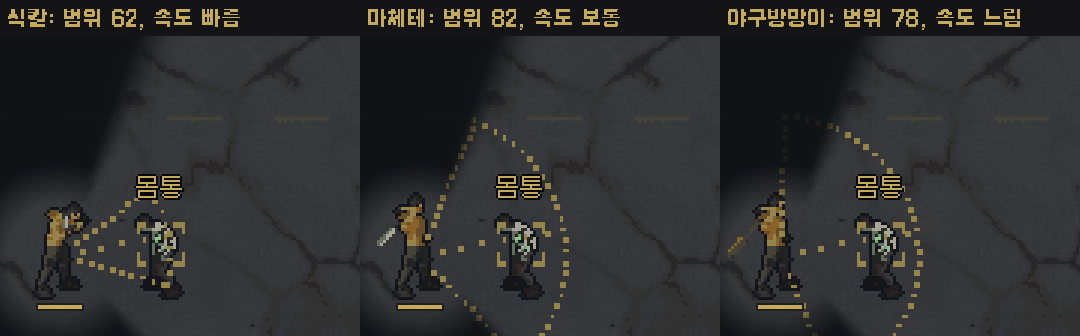
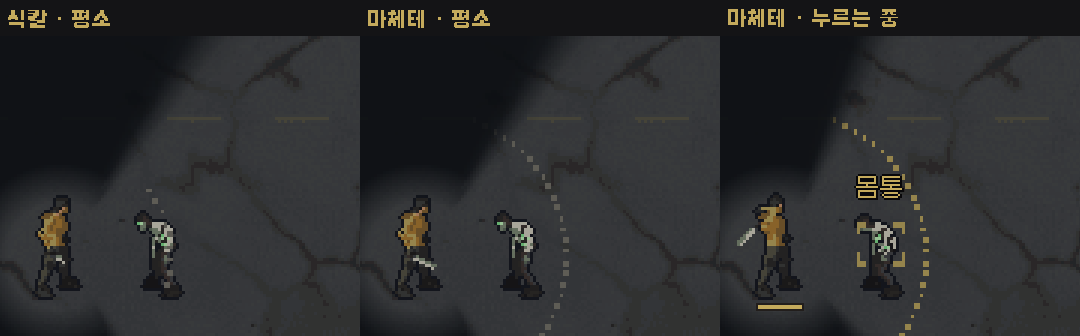
공격 범위는 끝 호만 점선으로, 평소에도 흐리게 보이고 누르면 부위 색

diff --git a/src/play.py b/src/play.py
@@ -732,17 +732,20 @@ class Game:
         self.draw_world(cx, cy)
 
     def draw_aim(self, cx, cy):
-        """While the weapon is held raised: the path of the blow toward the cursor and the part it
-        goes for, marked on the body (2026-11-16 "공격 경로가 보이면서"). Dotted on the canvas."""
+        """The reach of the weapon toward the cursor, as the arc its blow ends on - always shown,
+        faint; while the weapon is held raised it takes the colour of the part it goes for and that
+        part is marked on the body (2026-11-16 "차징 안 할 때도 범위가 뜨면", "그림처럼 끝부분만").
+        Dotted on the canvas."""
         hero = self.hero
-        if hero.ready is None or hero.ready < weapons.QUICK_PRESS or self.aim[0] is None:
+        if self.aim[0] is None or hero.dead or self.left or self.bag_open:
             return
+        holding = hero.ready is not None and hero.ready >= weapons.QUICK_PRESS
         w = hero.weapon
-        aim = self.aimed(*self.aim)
-        tx, ty = self.mouse_world(*self.aim)              # the path runs toward the cursor
+        aim = self.aimed(*self.aim) if holding else None
+        tx, ty = self.mouse_world(*self.aim)              # toward the cursor
         part = aim[1] if aim is not None else "torso"
         colour = {"head": (226, 70, 56), "torso": (196, 170, 92), "legs": (120, 160, 210),
-                  "ground": (214, 128, 52)}[part]
+                  "ground": (214, 128, 52)}[part] if holding else (120, 116, 104)
         sx, sy = hero.x, hero.y + CHEST
         ang = atan2(ty - sy, tx - sx)
         length = weapons.attack_range(w)                   # exactly the range the hit uses
@@ -751,17 +754,10 @@ class Game:
         def dot(x, y, size=1):
             pico2d.draw_rectangle(x - size - cx, y - size - cy, x + size - cx, y + size - cy, *colour, filled=True)
 
-        # the whole area the blow covers (2026-11-16 "공격 범위에 맞춰서 점선을"): both edges
-        # and the far arc, dotted; the middle line toward the cursor a little brighter
-        for edge in (-w["arc"], w["arc"]):
-            for i in range(2, int(length // step) + 1):
-                dot(sx + cos(ang + edge) * i * step, sy + sin(ang + edge) * i * step)
-        n = max(2, int(length * w["arc"] / step))
+        n = max(2, int(length * w["arc"] / step))          # only the far arc: where the blow ends
         for k in range(-n, n + 1):
             a = ang + k * w["arc"] / n
             dot(sx + cos(a) * length, sy + sin(a) * length)
-        for i in range(2, int(length // step) + 1, 2):    # the aim line
-            dot(sx + cos(ang) * i * step, sy + sin(ang) * i * step)
         if aim is not None:                               # the part it goes for, on the body
             z = aim[0]
             if z.prone:                                   # a crawler: all of it, on the ground

diff --git a/PRD.md b/PRD.md
@@ -19,6 +19,7 @@
 
 > **기획 고정 문서:** [DESIGN_LOCK.md](docs/planning/DESIGN_LOCK.md)(2026-11-13)가 기둥 3개·확정·정할 것·보류함·바꾸는 규칙을 담는다. 이 PRD와 어긋나면 고정 문서가 우선이고 PRD를 고친다.
 
+- **v7.4 (2026-11-16) — 공격 범위는 끝 호만, 늘 보임.** 사용자 "좌클릭을 차징 안 할 때도 범위가 뜨면 될 것 같아, 근데 그 범위가 그림처럼 끝부분만 보이면 좋겠음"(그림: 부채꼴 대신 끝 호만). 커서 쪽으로 무기의 범위 끝 호만 점선으로 그린다. 평소엔 흐린 회색, 누르고 있으면 노리는 부위 색이 되고 부위 표시가 뜬다.
 - **v7.3 (2026-11-16) — 밟기 판정 수정, 피폭체마다 다른 걸음, 무기별 장단점, 공격 범위 전체를 점선으로, 방망이·파이프는 내려치기.** 사용자 "밟기 판정이 이상함", "좀비별로 이동 속도를 다르게", "무기별로 장단점이 체감이 잘 안 됨", "공격 범위에 맞춰서 점선을 표시", "야구 방망이 모션이 이상함, 이런 종류의 무기를 도끼나 마체테처럼 똑같이 통일".
   - **밟기:** 기는 놈을 가운데 높이로 겨누면 표시 없이 밟기가 나가 허공을 밟던 문제를 고쳤다. 경로에 서 있는 놈이 없으면, 범위·방향 안의 기는 놈을 '밟기'로 표시하고 그놈을 밟는다(16가지 겨누는 방법 모두 처치).
   - **걸음:** 피폭체마다 느림(70%, 약 25%), 보통(55%), 빠름(140%, 약 20%)이다. 걷는 그림은 거리를 따라가서 다리도 그만큼 빨라진다.

diff --git a/PLAN.md b/PLAN.md
@@ -229,6 +229,8 @@
 
 - **2026-11-16 · 가벼운 상체 밀치기, 눕힌 상대 공격, 배낭 B** — "밀치는 동작을 하체는 거의 가만히, 상체만 가볍게" → 렌더 도구에 'A~B'(A 동작, 엉덩이·다리는 B 첫 자세로 고정) 추가, push 다시 렌더. "누워 있는 상대를 공격하는 것도 해야 할 것 같은데 어떻게 하는 게 좋을까" → 방식 제안 후 사용자 선택. "바닥 천에 늘어놓기 괜찮음, UI적으로 더 다듬고 다른 게임 조사해서 적용" → 사이드 세션 조사(docs/research/GROUND_INVENTORY_UI_RESEARCH.md) 뒤 B 시안에 칸 격자(0.1/칸, 무게만큼 차지)·무게 막대·같은 격자 근처·F/Shift+F 적용(v4_bag_b_grid.png).
 
+- **2026-11-16 · 범위는 끝 호만, 늘 보이게** — "차징 안 할 때도 범위가 뜨면, 그림처럼 끝부분만"(그림 첨부) → PRD v7.4.
+
 - **2026-11-16 · 밟기 수정, 피폭체 걸음, 무기 장단점, 범위 점선, 방망이 내려치기** — "1. 밟기 판정이 이상함 2. 좀비별로 이동 속도 다르게 3. 무기별로 장단점이 체감이 잘 안 됨 4. 공격 범위에 맞춰서 점선을", "야구 방망이 모션이 이상함, 도끼나 마체테처럼 똑같이 통일" → PRD v7.3.
 
 - **2026-11-16 · 무기를 든 채 걷기** — "좌클릭 차징할 때 하반신이 가만히 있는데 적절한 애니메이션 추가" → PRD v7.2.

diff --git a/docs/DEVLOG.md b/docs/DEVLOG.md
@@ -262,3 +262,4 @@
   - **점선:** 양쪽 가장자리, 끝 호, 가운데 겨눔선.
   - **방망이·파이프:** 내려치기로. 무기 배낭 칸을 납작한 모양으로 정하고 큰 것부터 넣는다.
   - **점검:** 17개를 숨긴 창으로 돌려 모두 통과했다.
+- **범위 끝 호만:** `draw_aim`이 평소에도 흐린 끝 호를 그리고, 양쪽 가장자리와 가운데 선은 뺐다. 누르고 있을 때만 부위 색과 표시가 나온다. 관련 점검 8개를 통과했다.
